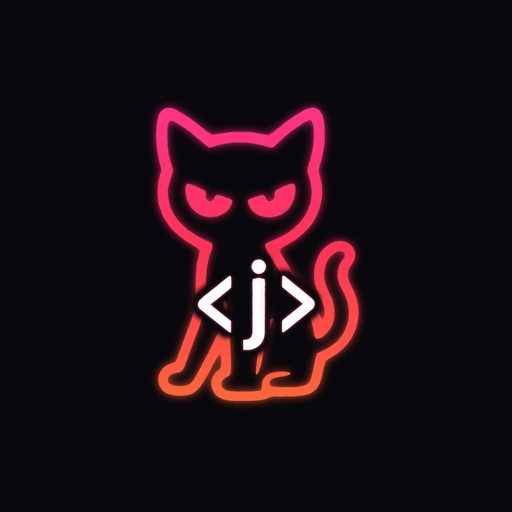
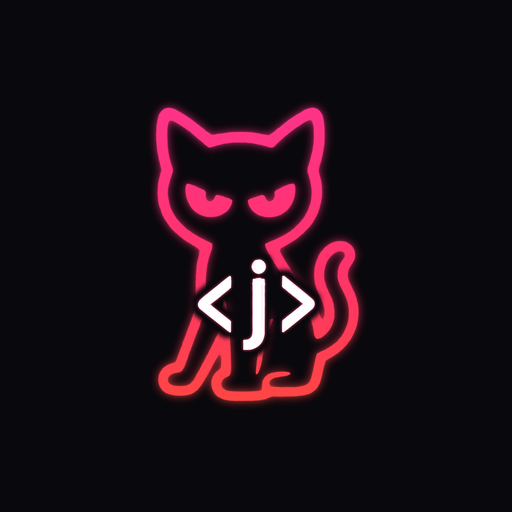
Gradient ends at red (hint of orange), not orange

Changed region(s): [[0.3125, 0.6875, 0.6562, 0.7812]]

diff --git a/public/styles.css b/public/styles.css
@@ -25,7 +25,7 @@
      "accent" color anywhere a single tone (not a gradient) is needed. */
   --brass:      #FF2E63;
   --brass-lt:   #FF5C84;
-  --grad:       linear-gradient(135deg,#FF2D87 0%,#FF3F5E 50%,#FF6A2B 100%);
+  --grad:       linear-gradient(135deg,#FF2D87 0%,#FF2D64 55%,#FF4434 100%);
   --brass-dk:   #D81E4E;
   --copper:     #34D399;
   --brass-ink:  #FFFFFF;
